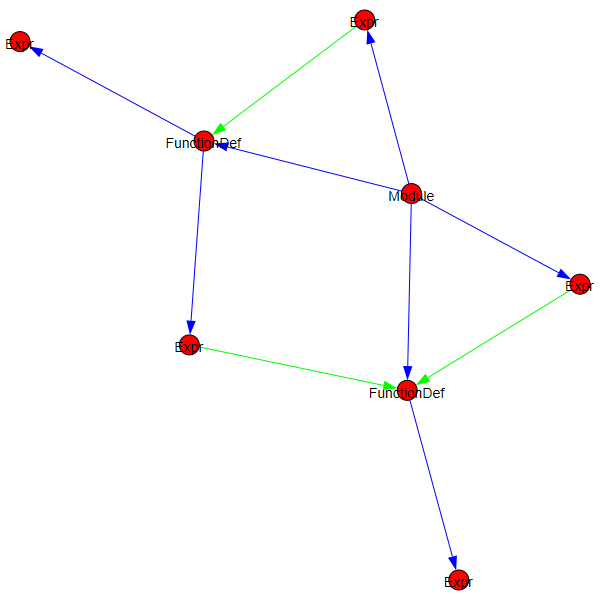
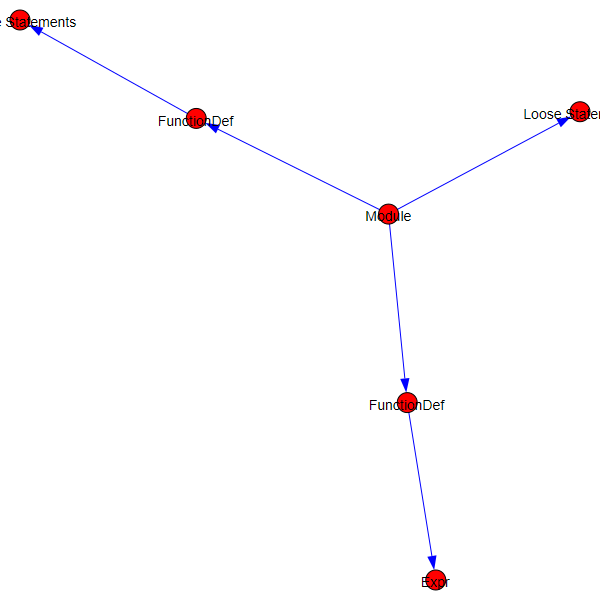
Added a loose statement gatherer and cleaned up readme

diff --git a/AST.py b/AST.py
@@ -4,6 +4,7 @@ import igraph
 node_list = list()
 
 # Redefines functions within the NodeVisitor class to print to file in specific format
+# Notes - Uncomment Print Statements if you want to Save the AST Structure to AST.txt
 class NodePrinter(ast.NodeVisitor):
     def __init__(self, output_file):
         self.output_file = output_file
@@ -33,7 +34,7 @@ class NodePrinter(ast.NodeVisitor):
             if hasattr(node.value.func, "id"):
                 # print('Calling:', file=self.output_file)
                 # print(str(node.value.func.id), file=self.output_file)  
-                dict_entry['Calling'] = str(node.value.func.id)
+                dict_entry['Calling'] = [str(node.value.func.id)]
             elif hasattr(node.value.func, "attr"):
                 # print('Attr:', file=self.output_file)
                 # print(str(node.value.func.attr), file=self.output_file)  
@@ -61,8 +62,49 @@ def parse_ast(ast_object, filename):
         NodePrinter(file).visit(ast_object)
 
 
-# def tie_up_loose_statements(graph):
-# Needs work
+# Modifies the node_list so that every node with Expr will have a Loose Statement instead
+def tie_up_loose_statements():
+    # Go through node_list looking for nodes with children
+    for node in node_list:
+        if 'Children' in node:
+            # Once a node with children is found collect the children that are Expr
+            loose_expressions = list()
+            for child in node['Children']:
+                if child[1] == 'Expr':
+                    loose_expressions.append(child)
+            # Once a node with children is found delete the children that are Expr (Have to do this in a seperate step since traversal gets mess up if deleting elements while traversing)
+            for child in reversed(node['Children']):
+                if child[1] == 'Expr':
+                    node['Children'].remove(child)
+
+        
+            # Combine the Expr into one
+            count = len(loose_expressions)    
+            while count > 1:
+                combine_nodes(loose_expressions[0][0], loose_expressions[count-1][0])
+                count = count - 1
+
+            # Rename the combined Expr to Loose Statements and add back to the parent's children
+            loose_expressions[0][1] = 'Loose Statements'
+            node['Children'].append(loose_expressions[0])
+
+
+# Helper Function for tie_up_loose_statements() that combines 2 nodes calling list
+def combine_nodes(ID1, ID2):
+    # Finds specificed nodes
+    for node in node_list:
+        if node['ID'] == ID1:
+            node1 = node
+        elif node['ID'] == ID2:
+            node2 = node
+    
+    # Adds node2's list of calls to node1's calls and then deletes node2
+    if node1 and node2:
+        node1['Type'] = 'Loose Statements'
+        node2['Type'] = 'Loose Statements'
+        node1['Calling'] += node2['Calling']
+        node_list.remove(node2)
+
 
 # Traverses through node list and adds each node to the graph
 def add_nodes(graph):
@@ -91,15 +133,16 @@ def add_edges(graph):
 def visualize_ast():
     newGraph = igraph.Graph(directed=True)
     
+    # Collects Expr and puts them together
+    tie_up_loose_statements()
+
     add_nodes(newGraph)
     add_edges(newGraph)
 
     # Deletes the vertices with degree 0
     newGraph.delete_vertices([v.index for v in newGraph.vs if newGraph.degree()[v.index] == 0])
-    # Collects Expr and puts them together
-    # newGraph = tie_up_loose_statements(newGraph)
     # Deletes self-loop edges
-    #newGraph.simplify(multiple=False, loops=True)
+    # newGraph.simplify(multiple=False, loops=True)
 
     layout = newGraph.layout('kk')
     igraph.plot(newGraph, 'AST.png', layout=layout)

diff --git a/Readme.md b/Readme.md
@@ -4,19 +4,7 @@
 
 For the program to work, run pip install igraph on your system and then run python AST.py
 
-added ASTnode visiter
-increase readability via functions
-group loose code together
-
-Nodes
-- classes
-- functions
-    - asynch
-    - def asynch
-- loose statements
-    - global statements
-
-Edges
-- Child-Parent edges
-- Calling edges (different because it could refer to code outside of the program)
-    - Later down the line, trashing edges that call for system defined functions while keeping user defined functions
+## TODO
+* Add Labels to Nodes
+* Improve the Format of the Graph
+* Add Tests
